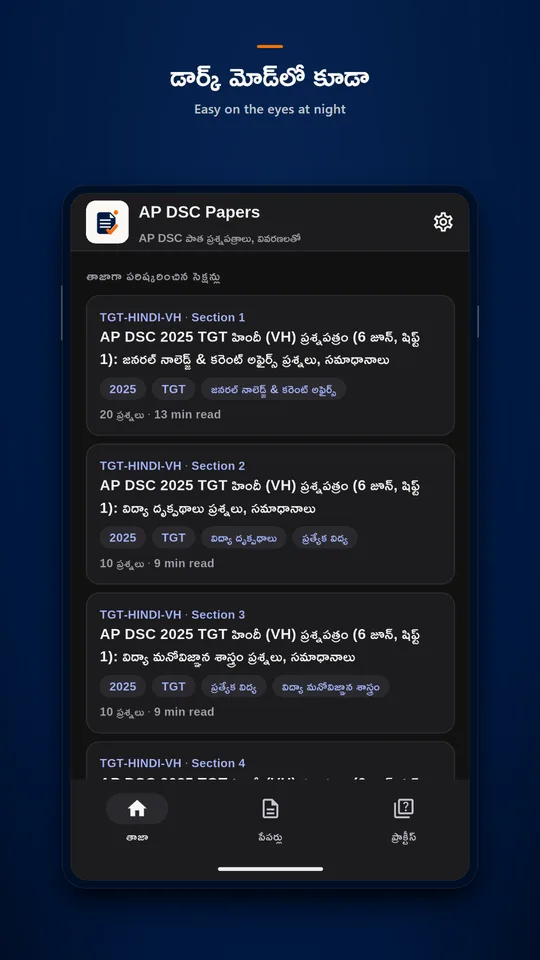
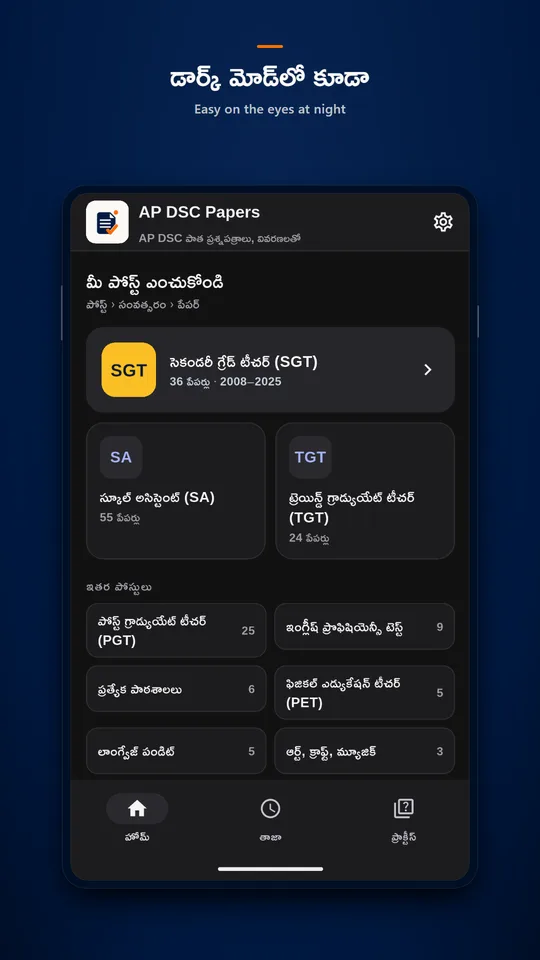
Update screenshots for the post > year > paper home flow

diff --git a/docs/index.html b/docs/index.html
@@ -34,8 +34,8 @@ footer{color:var(--m);font-size:14px;margin-top:56px;border-top:1px solid var(--
 <a class="btn" href="https://play.google.com/store/apps/details?id=com.exambadi.apdscpapers&amp;utm_source=github&amp;utm_medium=pages">Get it on Google Play</a>
 <a class="btn o" href="https://apdsc.exambadi.in/">Visit the website</a>
 <div class="shots">
-<img src="assets/1-home.webp" alt="Home screen listing the latest solved AP DSC paper sections" width="360" height="640">
-<img src="assets/2-papers.webp" alt="Papers listed by exam date and shift" width="360" height="640" loading="lazy">
+<img src="assets/1-home.webp" alt="Home screen: pick your post, SGT, SA, TGT and more" width="360" height="640">
+<img src="assets/2-papers.webp" alt="SGT 2025 papers by date and shift, solved ones first" width="360" height="640" loading="lazy">
 <img src="assets/3-answer.webp" alt="A maths question answered with a Telugu explanation" width="360" height="640" loading="lazy">
 <img src="assets/4-practice.webp" alt="Practice filters by year, subject and post" width="360" height="640" loading="lazy">
 <img src="assets/6-dark.webp" alt="Home screen in dark mode" width="360" height="640" loading="lazy">

diff --git a/README.md b/README.md
@@ -7,7 +7,7 @@ AP DSC Papers is a free Android app with the AP DSC 2025 previous question paper
 [![AP DSC Papers: solved previous papers with Telugu explanations. Watch the teaser](docs/assets/og.png)](https://youtu.be/7Y9s0w_10Ho)
 
 <p>
-<img src="docs/assets/1-home.webp" width="200" alt="Home screen listing the latest solved AP DSC paper sections">
+<img src="docs/assets/1-home.webp" width="200" alt="Home screen: pick your post, SGT, SA, TGT and more">
 <img src="docs/assets/3-answer.webp" width="200" alt="A maths question answered, with the correct option marked and a Telugu explanation">
 <img src="docs/assets/4-practice.webp" width="200" alt="Practice filters by year, subject and post">
 <img src="docs/assets/6-dark.webp" width="200" alt="Home screen in dark mode">
@@ -15,6 +15,7 @@ AP DSC Papers is a free Android app with the AP DSC 2025 previous question paper
 
 ## What's inside
 
+- **Three taps to a paper.** Pick your post, then the year, then the paper.
 - **Real AP DSC papers.** SGT, School Assistant and TGT papers from the 2025 Mega DSC, listed by exam date and shift.
 - **One section at a time.** GK and current affairs, perspectives in education, educational psychology, languages, maths, science, social studies, special education.
 - **Questions as printed.** Telugu and English text with the four options, exactly as in the paper.
